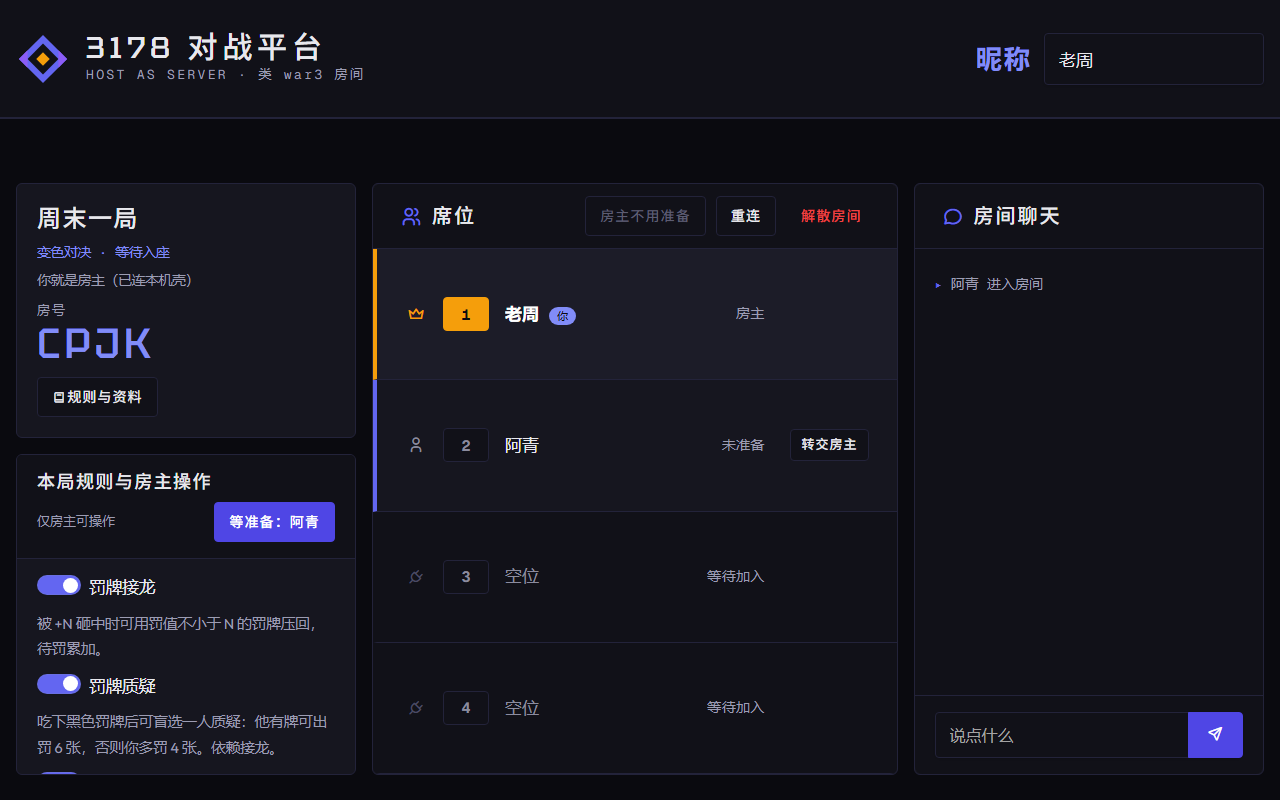
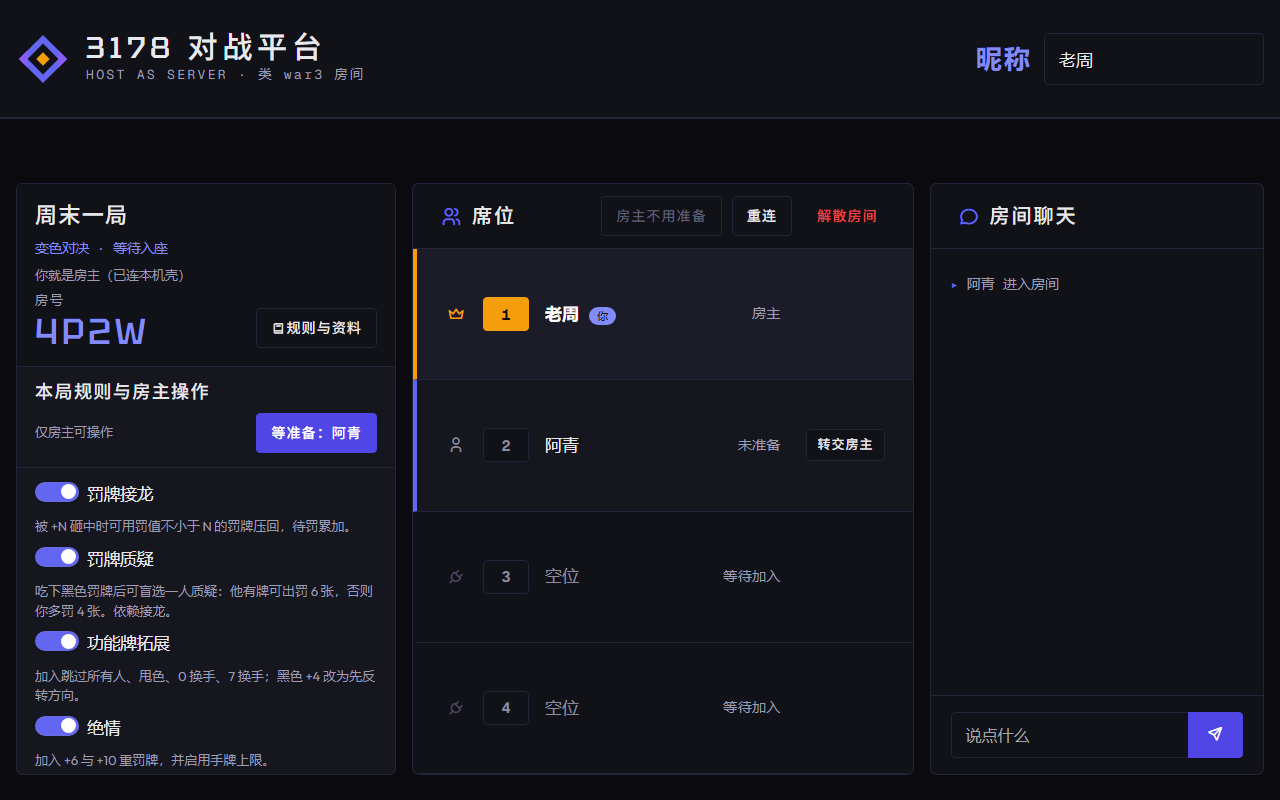
style: 左栏房信息与规则合并减密

diff --git a/packages/client/public/style.css b/packages/client/public/style.css
@@ -419,7 +419,7 @@ option:disabled {
 .room-layout:not(.is-playing) {
   --bp-room-col-h: clamp(520px, calc(100vh - 208px), 760px);
   display: grid;
-  grid-template-columns: minmax(300px, 340px) minmax(0, 3fr) minmax(0, 2fr);
+  grid-template-columns: minmax(340px, 380px) minmax(0, 3fr) minmax(0, 2fr);
   align-items: stretch;
   gap: 16px;
 }
@@ -428,12 +428,17 @@ option:disabled {
   grid-row: 1;
   display: flex;
   flex-direction: column;
-  gap: 16px;
+  gap: 0;
   min-width: 0;
   height: var(--bp-room-col-h);
+  overflow: hidden;
+  background: var(--bp-panel);
+  border: 1px solid var(--bp-line);
+  border-radius: 6px;
 }
 .room-left-slot:empty { display: none; }
 .room-layout:not(.is-playing) #room-left:not(.has-console) { height: auto; }
+.room-layout:not(.is-playing) #room-left:not(.has-console) .room-head { border-bottom: 0; }
 .room-layout:not(.is-playing) #room-left-host {
   flex: 1 1 auto;
   min-height: 0;
@@ -442,27 +447,47 @@ option:disabled {
 .room-layout:not(.is-playing) #room-left-host .host-console {
   flex: 1 1 auto;
   min-height: 0;
+  border: 0;
+  border-radius: 0;
+  background: transparent;
+}
+.room-layout:not(.is-playing) #room-left-host .host-console:hover {
+  border-color: transparent;
+  transform: none;
+}
+.room-layout:not(.is-playing) #room-left-host .host-console-head {
+  padding: 14px 18px;
+  background: transparent;
 }
 .room-layout:not(.is-playing) #room-left-host .host-console-body {
   flex: 1 1 auto;
   align-content: start;
   min-height: 0;
+  padding: 14px 18px 16px;
   overflow-y: auto;
 }
 .room-layout:not(.is-playing) .room-head {
   display: grid;
   grid-template-columns: minmax(0, 1fr) auto;
   align-items: end;
-  gap: 14px 16px;
-  padding: 20px;
+  gap: 10px 12px;
+  padding: 18px;
+  background: var(--bp-panel-alt);
+  border: 0;
+  border-bottom: 1px solid var(--bp-line);
+  border-radius: 0;
+}
+.room-layout:not(.is-playing) .room-head:hover {
+  border-color: transparent;
+  transform: none;
 }
 .room-layout:not(.is-playing) .room-head > .flex-grow-1 { grid-column: 1 / -1; }
 .room-layout:not(.is-playing) .room-head > .text-end { grid-column: 1; text-align: left !important; }
 .room-layout:not(.is-playing) .room-head #countdown-block { grid-column: 2; margin-left: 0; }
-.room-layout:not(.is-playing) .room-head #btn-reference { grid-column: 1 / -1; justify-self: start; }
-.room-layout:not(.is-playing) .room-head h2 { font-size: 24px; line-height: 1.25; }
-.room-layout:not(.is-playing) .room-head .hud-code { font-size: 42px; }
-.room-layout:not(.is-playing) .connection-bar { font-size: 13.5px; }
+.room-layout:not(.is-playing) .room-head #btn-reference { grid-column: 2; grid-row: 2; justify-self: end; align-self: end; }
+.room-layout:not(.is-playing) .room-head h2 { font-size: 22px; line-height: 1.25; }
+.room-layout:not(.is-playing) .room-head .hud-code { font-size: 36px; }
+.room-layout:not(.is-playing) .connection-bar { font-size: 13px; }
 .room-layout:not(.is-playing) .side-panels,
 .room-layout:not(.is-playing) .side-panels-body { display: contents; }
 .room-layout:not(.is-playing) .side-panels-head { display: none; }
@@ -498,13 +523,19 @@ option:disabled {
 }
 .room-layout:not(.is-playing) #room-left .host-console-body {
   grid-template-columns: minmax(0, 1fr);
-  gap: 18px;
+  gap: 14px;
+}
+.room-layout:not(.is-playing) #room-left .rule-config-panel-body { gap: 10px 14px; }
+.room-layout:not(.is-playing) #room-left .rule-field .hint {
+  margin-top: 4px;
+  font-size: 13px;
+  line-height: 1.5;
 }
 .room-layout:not(.is-playing) #room-left .host-actions {
   border-left: 0;
   padding-left: 0;
   border-top: 1px solid var(--bp-line);
-  padding-top: 16px;
+  padding-top: 14px;
 }
 .drawer-host-slot:empty { display: none; }
 

diff --git a/CONTEXT.md b/CONTEXT.md
@@ -29,7 +29,7 @@
 - 包边界：`@lizardon386/core-abi`（游戏 ABI）· `@bp/protocol`（wire）· `@lizardon386/pack-format`（.bpmap）· `@lizardon386/game-sdk`（公共门面 + game-kit）· `@lizardon386/sdk-tools`（bpmap CLI / doctor / 模板）。平台包仍是 `@bp/server`、`@bp/client`、`@bp/hostd`、`@bp/testkit`。
 - 游戏下发与兼容闸：`/api/games`、`/games/<id>/*`、客户端 SHA-256 校验（无 `crypto.subtle` 时纯 JS 回退）、`sandbox=allow-scripts` iframe；`mode` / `apiVersion` 写入 `.bpmap` 包头，宿主只加载 `turn` / `1`，`/api/version` 与 `bpmap doctor` 用同一组常量；`fixture-kit` 覆盖事件流 / 资源 / 拒绝。
 - **座位级选项**（SDK 0.4.0 契约 `c326314`）：`SeatOptionsSpec` / `parseSeatOptions`，`SeatView.options` / `GameSeatInfo.options`，`hostSeat {op:'setOptions'}`；平台把颜色直接映射到席位左侧色条/图标/号码牌，房主点号码牌选色；电脑行内显示难度下拉，无通用“设置”按钮；只房主、只 lobby，服务端用游戏 `normalizeSeatOptions`/spec 收口，`RoomExport` 随座位持久化。1280×800 截图 [seat-options-1280.png](docs/images/seat-options-1280.png)。232/232。
-- 房间 UI 增量：lobby 改三栏——左栏房间信息 + 「本局规则与房主操作」控制台，右侧席位/聊天并排；三栏共用 `clamp(520px, calc(100vh - 208px), 760px)` 高度（1280×800 实测 592px），左栏控制台内部滚动，席位行固定列对齐。非房主左栏只保留只读规则摘要，房主操作/开局/邀请/颜色入口/难度下拉全部隐藏。房主顶部按钮改为「解散房间」（直接 hostClose），真人席位行右侧由房主直接「转交房主」，状态列与动作列对齐。`playing` 时房间头移到顶部，游戏区拉通整行，席位横向状态条，聊天/控制台进右侧侧栏（`D` / `Esc`，焦点归还）；无 deadline 不显示倒计时块；“规则与资料”改为接近全屏双栏弹层。1280×800 实测游戏区 1248×560；截图 [房主](docs/images/room-host-lobby-1280.png) / [非房主](docs/images/room-guest-lobby-1280.png) / [对局中](docs/images/room-playing-1280.png)。房间页「本局规则」卡由房主在 lobby 编辑（`ruleConfig` 命令，非房主 HOSTONLY），改后刷新 `RoomView.config` / `rulesHash`、重置真人 ready 并发系统消息；`RoomExport.config` 落盘，重启保持。`manifest.reference` 首次展开才请求，`parseGameReference` 校验，文本用 `textContent`、图片走 `/games`，图片 404 显示 alt，失败只影响面板。服务端在模块加载时还会校验 `ruleConfig` / `reference` 文档，坏声明跳过并记 `errors`；`manifestOf` 再挡一次；包头与模块 reference 不一致拒绝加载。
+- 房间 UI 增量：lobby 改三栏——左栏 380px，房信息与「本局规则与房主操作」合成一张连续卡（房信息 184px、房主台 407px），规则区紧贴房号下方，规则说明 13px，控制台在栏内滚动；右侧席位/聊天并排。三栏共用 `clamp(520px, calc(100vh - 208px), 760px)` 高度（1280×800 实测 592px），席位行固定列对齐。非房主左栏只保留只读规则摘要，房主操作/开局/邀请/颜色入口/难度下拉全部隐藏。房主顶部按钮改为「解散房间」（直接 hostClose），真人席位行右侧由房主直接「转交房主」，状态列与动作列对齐。`playing` 时房间头移到顶部，游戏区拉通整行，席位横向状态条，聊天/控制台进右侧侧栏（`D` / `Esc`，焦点归还）；无 deadline 不显示倒计时块；“规则与资料”改为接近全屏双栏弹层。1280×800 实测游戏区 1248×560；截图 [房主](docs/images/room-host-lobby-1280.png) / [非房主](docs/images/room-guest-lobby-1280.png) / [对局中](docs/images/room-playing-1280.png)。房间页「本局规则」卡由房主在 lobby 编辑（`ruleConfig` 命令，非房主 HOSTONLY），改后刷新 `RoomView.config` / `rulesHash`、重置真人 ready 并发系统消息；`RoomExport.config` 落盘，重启保持。`manifest.reference` 首次展开才请求，`parseGameReference` 校验，文本用 `textContent`、图片走 `/games`，图片 404 显示 alt，失败只影响面板。服务端在模块加载时还会校验 `ruleConfig` / `reference` 文档，坏声明跳过并记 `errors`；`manifestOf` 再挡一次；包头与模块 reference 不一致拒绝加载。
 - 单入口壳：根目录只有 `3178对战平台.bat`，启动 `cli.js shell`；先只开 `127.0.0.1:3178` 与本机大厅，点「建房」时调 `/api/host/ready` 再开 `0.0.0.0:3000`、组播与 `HostStore`。纯进房不创建 `HostStore`、不写 `data/`；建房后 `run-<port>.json` / `stop` / `diagnose` 与旧入口一致。`host` / `join` 子命令保留给命令行。
 - SDK 0.3.0 已发 npm（四包 `@lizardon386/*`，`latest` 均为 0.3.0，2026-10-29）；Trusted Publisher + [publish-sdk.yml](.github/workflows/publish-sdk.yml) 的首次真实 CI 发布已绿；`sdk-v0.3.0` tag/Release 已建（Release 资产来自 `dist-sdk/`，含 SHA256SUMS）。`sdk-v0.2.0` 保留可回退。**SDK 0.4.0 座位选项契约已在仓库（`c326314`），未打包/未发 npm/未打 tag**；游戏侧需本地 link 0.4.0。
[1 lines of base64/hex data omitted]

diff --git a/DESIGN.md b/DESIGN.md
@@ -261,9 +261,9 @@ stateDiagram-v2
 
 ### 4.5 房间界面：对局区、规则与资料
 
-- **lobby 三栏等高**：左栏放房间信息与「本局规则与房主操作」控制台（房主可编辑规则和管理房间，非房主只读规则），右侧席位与聊天并排；三栏共用 `calc(100vh - 208px)` 的高度，桌面底边对齐，左栏控制台在栏内滚动。席位行按固定列对齐：状态列同宽，最右侧留动作列；真人席位行由房主直接点「转交房主」，房主的顶部按钮是「解散房间」而不是无意义的「离开」。进入 `playing` 后房间头移到顶部，游戏区拉通整行，席位压成横向状态条，聊天与同一控制台收进右侧抽屉，默认收起；按钮、`D` 键和 `Esc` 都能操作，关闭时焦点回到触发按钮。没有 deadline 时不显示倒计时块。
+- **lobby 三栏等高**：左栏 380px 宽，房信息与「本局规则与房主操作」合成一张连续卡：房号/连接信息在上半，规则区紧贴其下，没有第二张卡的间距和重复边框；规则正文收紧到 13px，房主台在栏内滚动。右侧席位与聊天并排；三栏共用 `calc(100vh - 208px)` 的高度，桌面底边对齐。席位行按固定列对齐：状态列同宽，最右侧留动作列；真人席位行由房主直接点「转交房主」，房主的顶部按钮是「解散房间」而不是无意义的「离开」。进入 `playing` 后房间头移到顶部，游戏区拉通整行，席位压成横向状态条，聊天与同一控制台收进右侧抽屉，默认收起；按钮、`D` 键和 `Esc` 都能操作，关闭时焦点回到触发按钮。没有 deadline 时不显示倒计时块。
 - **非房主视图**：左栏只保留房间名/房号/连接状态和规则摘要，开局、加电脑位、移交、请出、邀请和关房全部隐藏；座位号码牌不是颜色入口，电脑难度下拉也不会出现。席位与聊天位置和房主一致，`lobby` 只多一个「准备」按钮。截图见 [room-guest-lobby-1280.png](docs/images/room-guest-lobby-1280.png)。
-- **桌面实测**：1280×800 下三栏同高 592px，游戏区 1248×560；低于 1100px 宽的桌面不在本档验收范围。
+- **桌面实测**：1280×800 下三栏同高 592px，左栏房信息 184px、房主台 407px，游戏区 1248×560；低于 1100px 宽的桌面不在本档验收范围。
 - **本局规则**：房间页在 `manifest.ruleConfig` 存在时在房主控制台里显示规则区；房主在 `lobby` 阶段可编辑，其他人只读，`playing` 后一律只读。修改走房主专用 `ruleConfig`，服务端用 `normalizeConfig` / `rulesHashOf` 重算，推进 revision，并把所有真人 ready 清零、发系统消息「房规已更新，请重新准备」。`RoomView.config` 与 `rulesHash` 随快照广播，后加入者从 `seatGranted` 的 manifest 和首个快照拿到新值；`RoomExport.config` 落盘，恢复后规则保持。平台不改 `normalizeConfig`，非法值仍由游戏兜底。
 - **座位级选项**：`GameModule.seatOptions` 声明每个座位可配的字段（`roles` 过滤）。颜色字段直接驱动席位行的左侧色条/图标/号码牌，房主在 lobby 点号码牌选色；电脑座位在行内显示难度下拉；不再有通用“设置”按钮。变更走 `hostSeat {op:'setOptions'}`；只房主、只 lobby，服务端用 `normalizeSeatOptions` 或声明默认值收口，`SeatView.options` / `GameSeatInfo.options` 透传，`RoomExport` 随座位持久化。平台不解释 field 的玩法含义。
 - **资料面板**：`manifest.reference.entry` 指向包内 JSON，第一次展开才请求 `/games/<id>/<entry>`，用 `parseGameReference` 校验；主界面和房间共用接近全屏的双栏弹层。只渲染纯文本与图片，文本走 `textContent`，不解析 HTML；图片走现有 `/games` 路由，`..`、绝对路径和反斜杠一律拒绝。图片 404 时用 `onerror` 显示 alt 文案；读取失败只在面板里说明，不影响对局。

diff --git a/README.md b/README.md
@@ -52,7 +52,7 @@
 
 1. **房主**：先在大厅填好昵称，再填房名、选游戏、定座位数 → 点「建房并坐 1 号位」，界面上出现四位房号。本机页面始终是 `127.0.0.1:3178`；房主页在「邀请链接」下面会列出局域网地址，那是给朋友的入口。
 2. **客人**：另一台机器双击「3178对战平台.bat」，先填昵称，再填房主地址（房主页列出的局域网地址，或隧道网址）+ 房号；或者直接点房主发来的邀请链接，地址和房号都替你填好，昵称仍要先填。进别人的房不用先选游戏，房间用哪款游戏由房主决定。
-3. 进房后左栏是房间信息和「本局规则与房主操作」；房主在这里改规则，只有 `lobby` 阶段能改，改完所有真人会回到未准备，需要重新准备。客人左栏只剩房间信息和只读规则摘要，没有开局、邀请、移交这些房主按钮。房主不能直接离开，顶部按钮是「解散房间」；真人的席位行右侧有「转交房主」。游戏声明了座位选项时，房主点座位号码牌改颜色，电脑座位行内直接改难度；真人座位不显示难度和设置按钮。
+3. 进房后左栏是一张连续的卡：上半是房间信息，下面紧接「本局规则与房主操作」。房主在这里改规则，只有 `lobby` 阶段能改，改完所有真人会回到未准备，需要重新准备。客人左栏只剩房间信息和只读规则摘要，没有开局、邀请、移交这些房主按钮。房主不能直接离开，顶部按钮是「解散房间」；真人的席位行右侧有「转交房主」。游戏声明了座位选项时，房主点座位号码牌改颜色，电脑座位行内直接改难度；真人座位不显示难度和设置按钮。
 4. 各自点「准备」，房主的「开始对局」变亮后开局。人不够时按钮上会写明“等准备：谁”。
 5. **掉线 / 关页面 / 换设备**：浏览器数据还在就会自动坐回原位；票据失效时界面会说明原因，不会只丢一句错误码。
 
